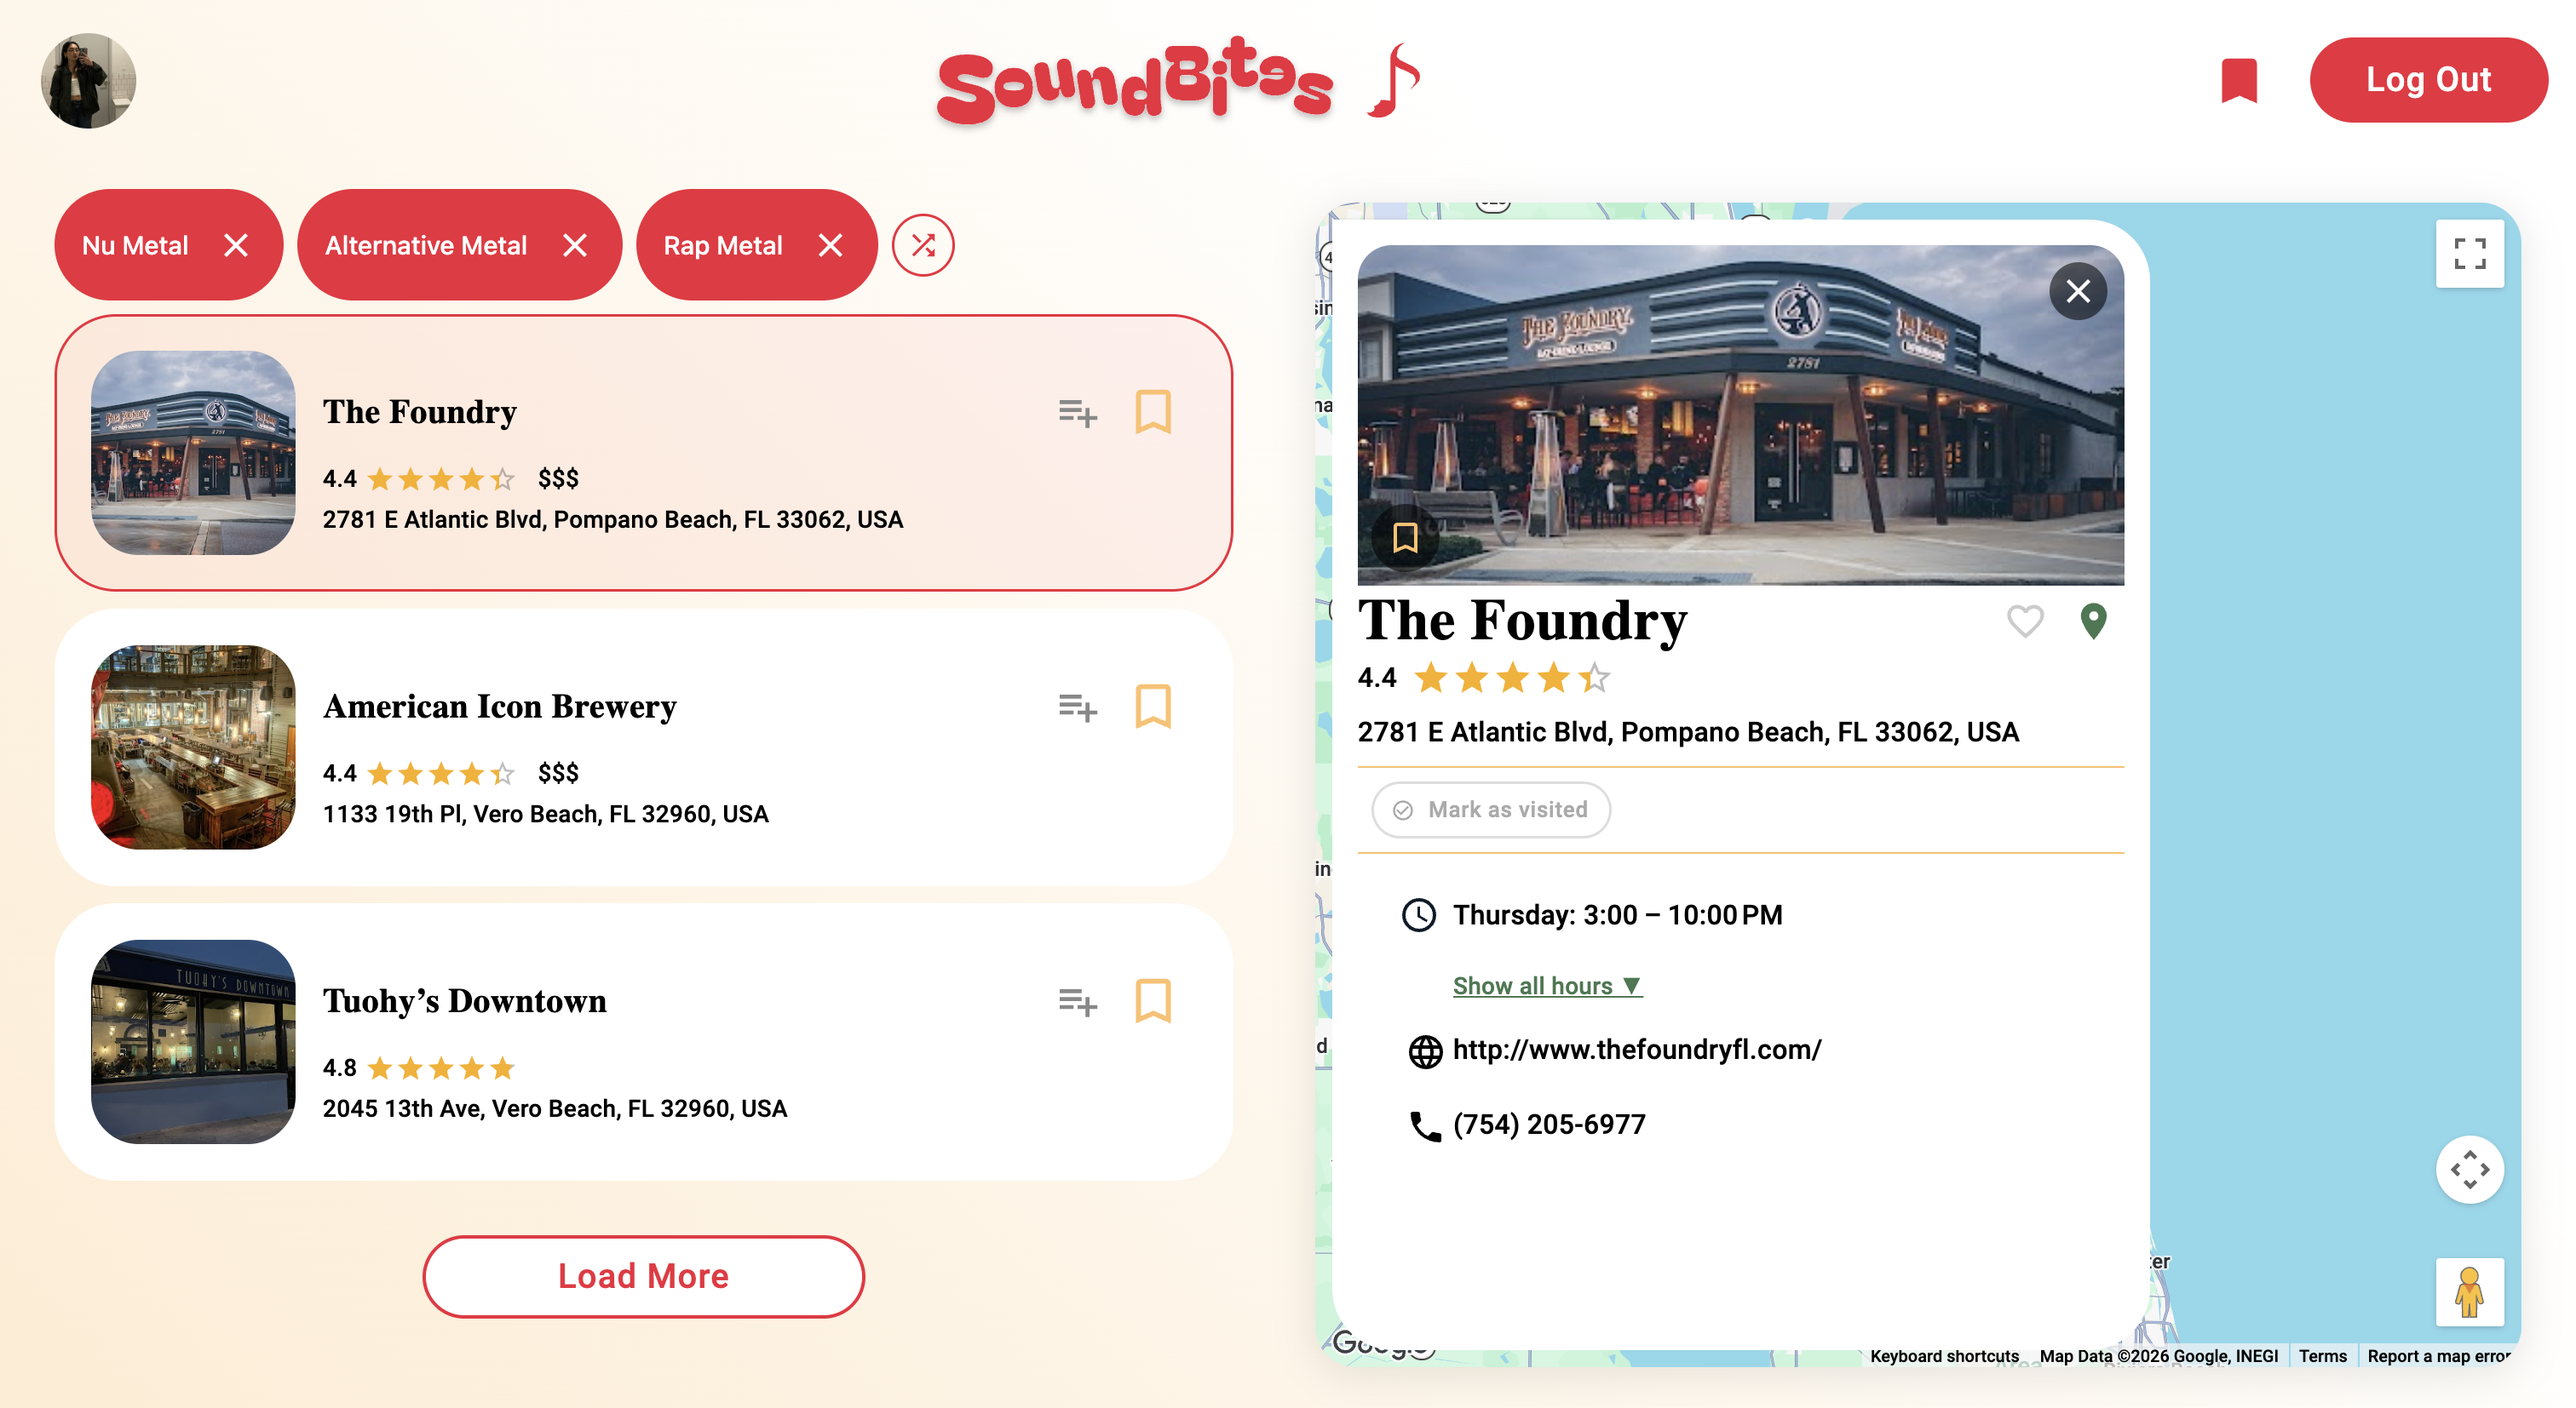
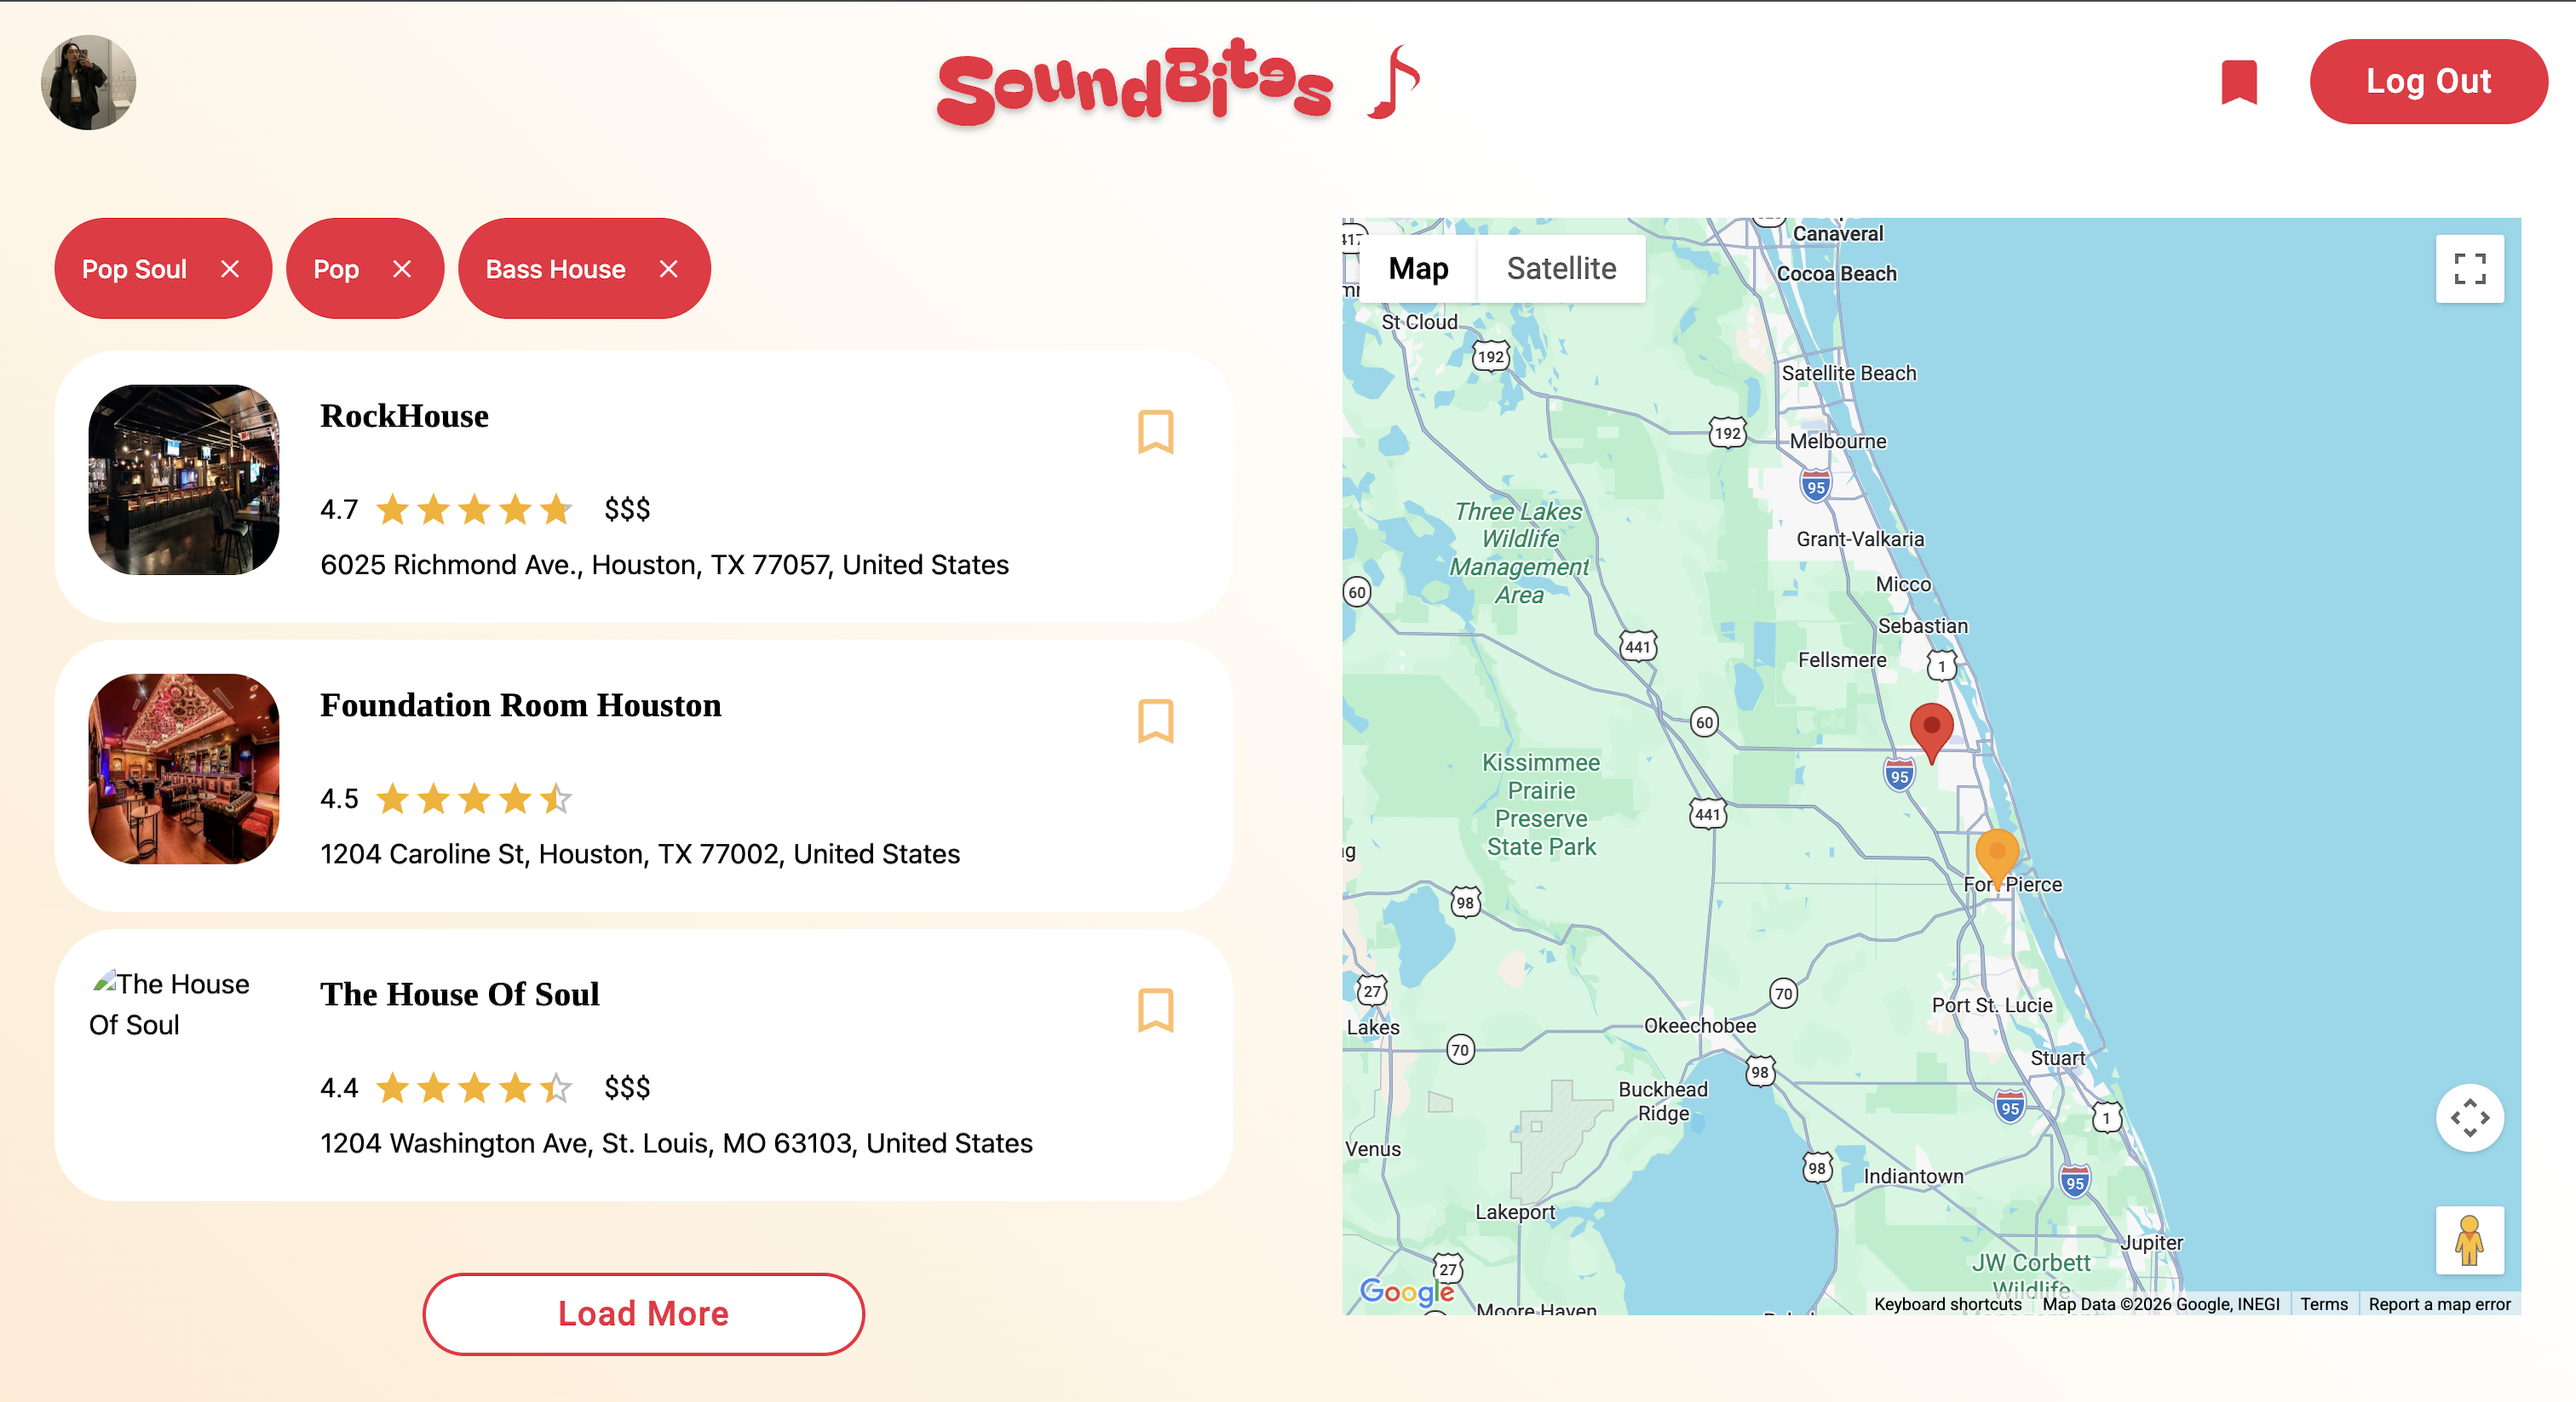
Revert "New portfolio"

diff --git a/soundBites.html b/soundBites.html
@@ -2,7 +2,6 @@
 <html lang="en">
 <head>
 	<meta charset="utf-8">
-	<link rel="icon" type="image/png" href="images/EG_logo.png">
 	<meta http-equiv="X-UA-Compatible" content="IE=Edge">
 	<meta name="viewport" content="width=device-width, initial-scale=1">
 	<title>SoundBites — Edrienne Gregana</title>
@@ -87,8 +86,7 @@
 			<p class="tinos-regular sb-body">The target audience is people who love Spotify Wrapped and personality quizzes. People who want a tailored experience, not another generic search.</p>
 			<div class="sb-cta-row">
 				<a href="https://github.com/eddymarg/SoundBites" target="_blank" class="btn-outline pixelify-sans-regular sb-btn">GitHub repo</a>
-				<a href="https://docs.google.com/document/d/1lr8w-XrFKAbHOS3SHpjrKUAeo0E0bBcb7bqjbOQZLi8/edit?usp=sharing" target="_blank" class="btn-outline pixelify-sans-regular sb-btn">Documentation</a>
-				<a href="https://youtu.be/EImfk59yW0Y" target="_blank" class="btn-outline pixelify-sans-regular sb-btn">Demo</a>
+				<a href="https://docs.google.com/document/d/1lr8w-XrFKAbHOS3SHpjrKUAeo0E0bBcb7bqjbOQZLi8/edit" target="_blank" class="btn-outline pixelify-sans-regular sb-btn">Documentation</a>
 			</div>
 		</div>
 	</section>

diff --git a/arboretum.html b/arboretum.html
@@ -2,7 +2,6 @@
 <html lang="en">
 <head>
 	<meta charset="utf-8">
-	<link rel="icon" type="image/png" href="images/EG_logo.png">
 	<meta http-equiv="X-UA-Compatible" content="IE=Edge">
 	<meta name="viewport" content="width=device-width, initial-scale=1">
 	<title>UCF Arboretum — Edrienne Gregana</title>

diff --git a/jackbox.html b/jackbox.html
@@ -2,7 +2,6 @@
 <html lang="en">
 <head>
 	<meta charset="utf-8">
-	<link rel="icon" type="image/png" href="images/EG_logo.png">
 	<meta http-equiv="X-UA-Compatible" content="IE=Edge">
 	<meta name="viewport" content="width=device-width, initial-scale=1">
 	<title>Jackbox Games — Edrienne Gregana</title>

diff --git a/sproutfolio.html b/sproutfolio.html
@@ -2,7 +2,6 @@
 <html lang="en">
 <head>
 	<meta charset="utf-8">
-	<link rel="icon" type="image/png" href="images/EG_logo.png">
 	<meta http-equiv="X-UA-Compatible" content="IE=Edge">
 	<meta name="viewport" content="width=device-width, initial-scale=1">
 	<title>Sproutfolio — Edrienne Gregana</title>

diff --git a/bookstack.html b/bookstack.html
@@ -2,7 +2,6 @@
 <html lang="en">
 <head>
 	<meta charset="utf-8">
-	<link rel="icon" type="image/png" href="images/EG_logo.png">
 	<meta http-equiv="X-UA-Compatible" content="IE=Edge">
 	<meta name="viewport" content="width=device-width, initial-scale=1">
 	<title>Book Stock — Edrienne Gregana</title>

diff --git a/limbitless.html b/limbitless.html
@@ -2,7 +2,6 @@
 <html lang="en">
 <head>
 	<meta charset="utf-8">
-	<link rel="icon" type="image/png" href="images/EG_logo.png">
 	<meta http-equiv="X-UA-Compatible" content="IE=Edge">
 	<meta name="viewport" content="width=device-width, initial-scale=1">
 	<title>Limbitless — Edrienne Gregana</title>

diff --git a/wanderlust.html b/wanderlust.html
@@ -2,7 +2,6 @@
 <html lang="en">
 <head>
 	<meta charset="utf-8">
-	<link rel="icon" type="image/png" href="images/EG_logo.png">
 	<meta http-equiv="X-UA-Compatible" content="IE=Edge">
 	<meta name="viewport" content="width=device-width, initial-scale=1">
 	<title>Wanderlust — Edrienne Gregana</title>

diff --git a/saturn.html b/saturn.html
@@ -2,7 +2,6 @@
 <html lang="en">
 <head>
 	<meta charset="utf-8">
-	<link rel="icon" type="image/png" href="images/EG_logo.png">
 	<meta http-equiv="X-UA-Compatible" content="IE=Edge">
 	<meta name="viewport" content="width=device-width, initial-scale=1">
 	<title>Saturn — Edrienne Gregana</title>

diff --git a/sched.html b/sched.html
@@ -2,7 +2,6 @@
 <html lang="en">
 <head>
 	<meta charset="utf-8">
-	<link rel="icon" type="image/png" href="images/EG_logo.png">
 	<meta http-equiv="X-UA-Compatible" content="IE=Edge">
 	<meta name="viewport" content="width=device-width, initial-scale=1">
 	<title>Sched — Edrienne Gregana</title>

diff --git a/asis.html b/asis.html
@@ -2,7 +2,6 @@
 <html lang="en">
 <head>
 	<meta charset="utf-8">
-	<link rel="icon" type="image/png" href="images/EG_logo.png">
 	<meta http-equiv="X-UA-Compatible" content="IE=Edge">
 	<meta name="viewport" content="width=device-width, initial-scale=1">
 	<title>ASIS — Edrienne Gregana</title>

diff --git a/index.html b/index.html
@@ -2,7 +2,6 @@
 <html lang="en">
 <head>
 	<meta charset="utf-8">
-	<link rel="icon" type="image/png" href="images/EG_logo.png">
 	<meta http-equiv="X-UA-Compatible" content="IE=Edge">
 	<meta name="viewport" content="width=device-width, initial-scale=1">
 	<meta name="keywords" content="">
